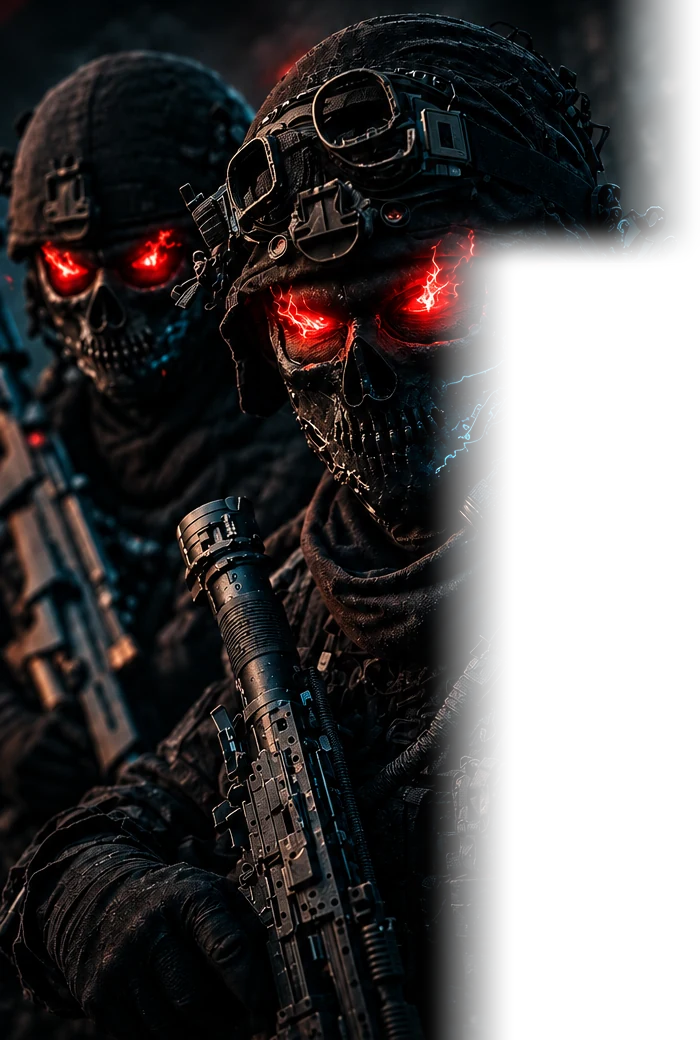
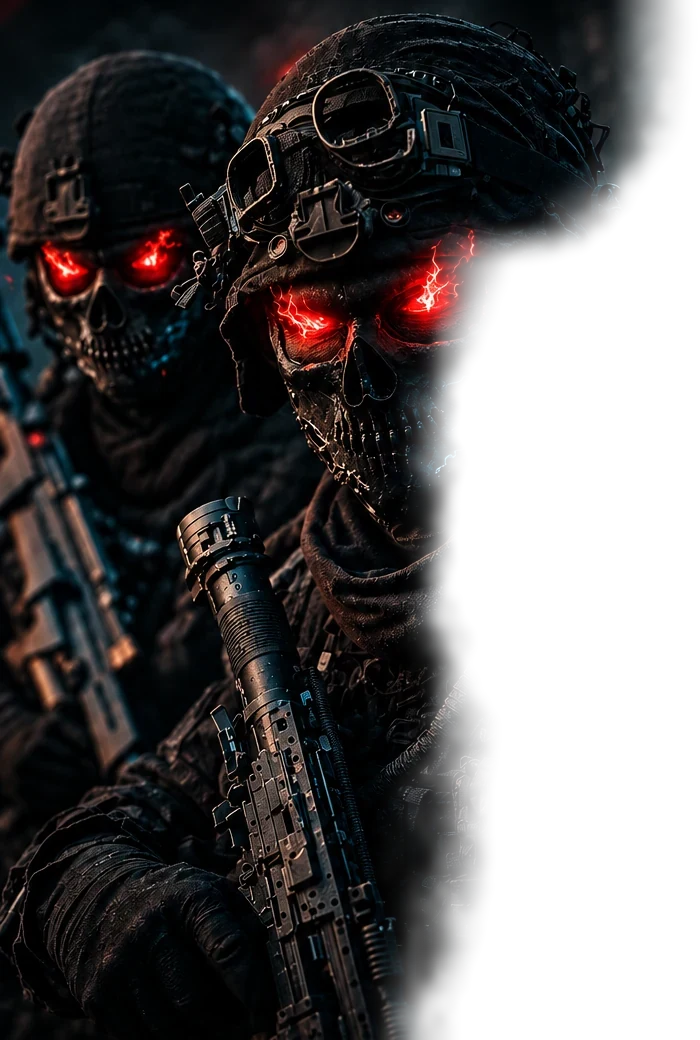
Login: remove retangulo no rosto (arte esfumacada) e fumaca nova que sobe pelo rosto e capacete e se dissolve
Claude-Session: https://claude.ai/code/session_01BiS7EyNpzhKpwbwB1NURPB

Changed region(s): [[0.54, 0.2769, 0.72, 1.0], [0.75, 0.0615, 0.99, 0.2462]]

diff --git a/src/app/globals.css b/src/app/globals.css
@@ -678,17 +678,44 @@ dialog[open][data-testid="level-up"] { animation: lvl-in-k 0.3s ease-out; }
   .login-cena::before {
     content: ""; position: absolute; inset: 0;
     background: url("/images/aprovum-login-fumaca.jpg") 0 0 / 640px 640px repeat;
-    mix-blend-mode: screen; opacity: 0.55;
+    mix-blend-mode: screen; opacity: 0.3;
   }
+  /* Soldados: a caixa da imagem tem o tamanho exato da arte e a borda direita da arte já vem esfumaçada (sem "retângulo"). */
   .login-cena::after {
-    content: ""; position: absolute; inset: 0;
-    background: url("/images/aprovum-login-hero.webp") left 0 top 4.5rem / auto max(calc(100% - 4.5rem), 112vh) no-repeat;
-    -webkit-mask-image: linear-gradient(to bottom, transparent 0, transparent 4.5rem, #000 13rem, #000 78%, transparent 100%);
-    mask-image: linear-gradient(to bottom, transparent 0, transparent 4.5rem, #000 13rem, #000 78%, transparent 100%);
+    content: ""; position: absolute; left: 0; top: 4.5rem; height: max(calc(100% - 4.5rem), 112vh); aspect-ratio: 700 / 1040;
+    background: url("/images/aprovum-login-hero.webp") 0 0 / 100% 100% no-repeat;
+    -webkit-mask-image: linear-gradient(to bottom, transparent 0, #000 9rem, #000 78%, transparent 100%);
+    mask-image: linear-gradient(to bottom, transparent 0, #000 9rem, #000 78%, transparent 100%);
   }
+  /* Fumaça por cima do rosto e do capacete: sobe, passa pelos soldados e se dissolve no ar. */
+  .login-fumo {
+    position: absolute; left: -26%; bottom: -28%; width: min(1040px, 82vw); aspect-ratio: 1; background-size: 100% 100%; background-repeat: no-repeat;
+    mix-blend-mode: screen; opacity: 0; will-change: transform, opacity; filter: blur(1.5px);
+    -webkit-mask-image: radial-gradient(closest-side, #000 35%, transparent 100%); mask-image: radial-gradient(closest-side, #000 35%, transparent 100%);
+  }
+  .login-fumo.a { background-image: url("/images/fumaca-a.webp"); }
+  .login-fumo.b { background-image: url("/images/fumaca-b.webp"); left: -12%; bottom: -34%; width: min(900px, 72vw); }
+  .login-fumo.c { background-image: url("/images/fumaca-c.webp"); left: -34%; bottom: -8%; width: min(980px, 78vw); }
 }
 @media (min-width: 900px) and (prefers-reduced-motion: no-preference) {
   .login-cena::before { animation: login-fumaca 90s linear infinite; }
+  .login-fumo { animation: fumo-sobe 22s ease-in-out infinite; }
+  .login-fumo.b { animation-duration: 28s; animation-delay: -9s; animation-name: fumo-sobe-b; }
+  .login-fumo.c { animation-duration: 25s; animation-delay: -16s; }
+}
+@media (min-width: 900px) and (prefers-reduced-motion: reduce) { .login-fumo.a { opacity: .22; } }
+/* nasce embaixo, sobe pelo rosto/capacete engrossando e vai sumindo (opacidade e escala) até se esvair */
+@keyframes fumo-sobe {
+  0% { opacity: 0; transform: translate3d(-4%, 14%, 0) scale(.9) rotate(-3deg); }
+  22% { opacity: .62; }
+  60% { opacity: .46; }
+  100% { opacity: 0; transform: translate3d(12%, -42%, 0) scale(1.25) rotate(5deg); }
+}
+@keyframes fumo-sobe-b {
+  0% { opacity: 0; transform: translate3d(8%, 18%, 0) scale(.95) rotate(4deg); }
+  25% { opacity: .55; }
+  65% { opacity: .4; }
+  100% { opacity: 0; transform: translate3d(-10%, -48%, 0) scale(1.3) rotate(-6deg); }
 }
 @keyframes login-fumaca { from { background-position: 0 0; } to { background-position: 640px -640px; } }
 

diff --git a/src/app/(login)/entrar/page.tsx b/src/app/(login)/entrar/page.tsx
@@ -26,7 +26,11 @@ export default async function SignInPage({ searchParams }: { searchParams: Promi
     <div className="login-tela">
       <div className="login-fundo" aria-hidden />
       {/* Desktop: cena de fundo em tela cheia (soldados à esquerda + fumaça); no celular a arte fica no topo */}
-      <div className="login-cena" aria-hidden />
+      <div className="login-cena" aria-hidden>
+        <i className="login-fumo a" />
+        <i className="login-fumo b" />
+        <i className="login-fumo c" />
+      </div>
       <LoginHeader />
 
       <main id="conteudo" className="login-palco">
